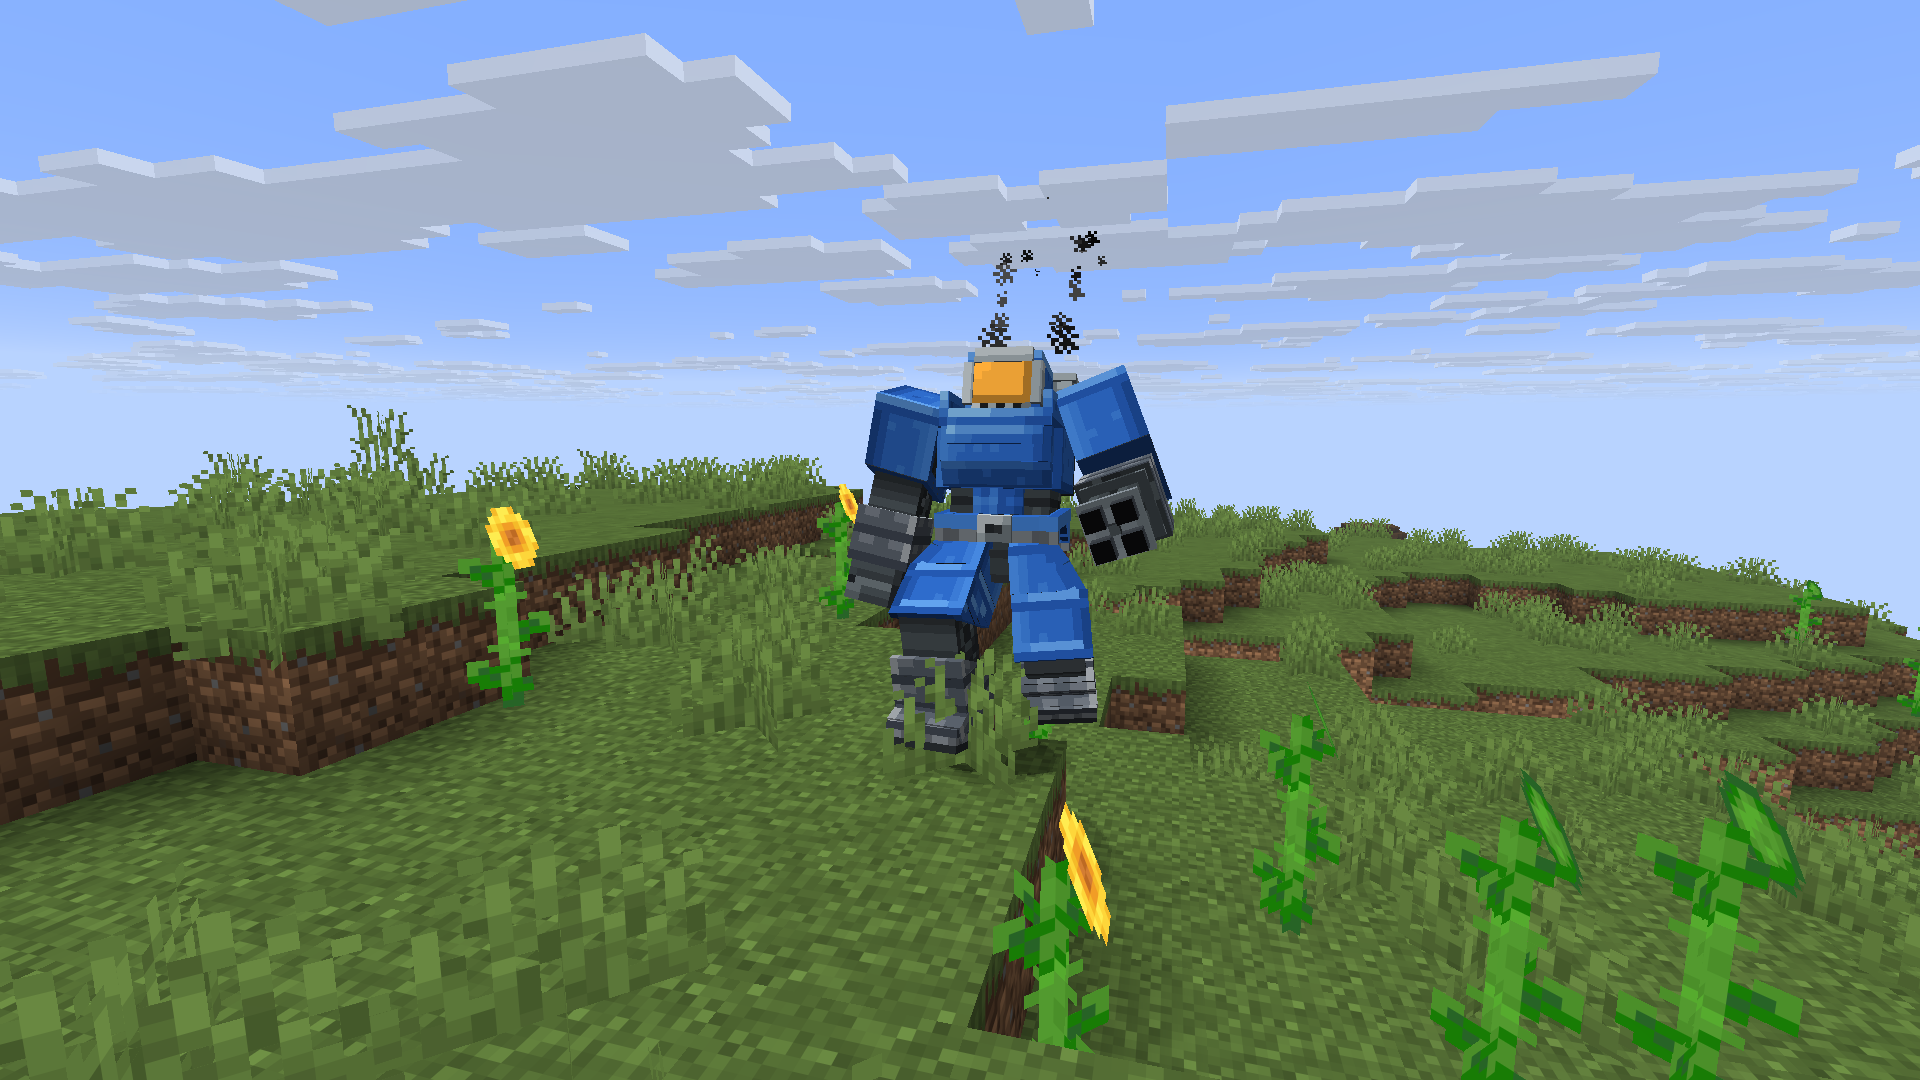
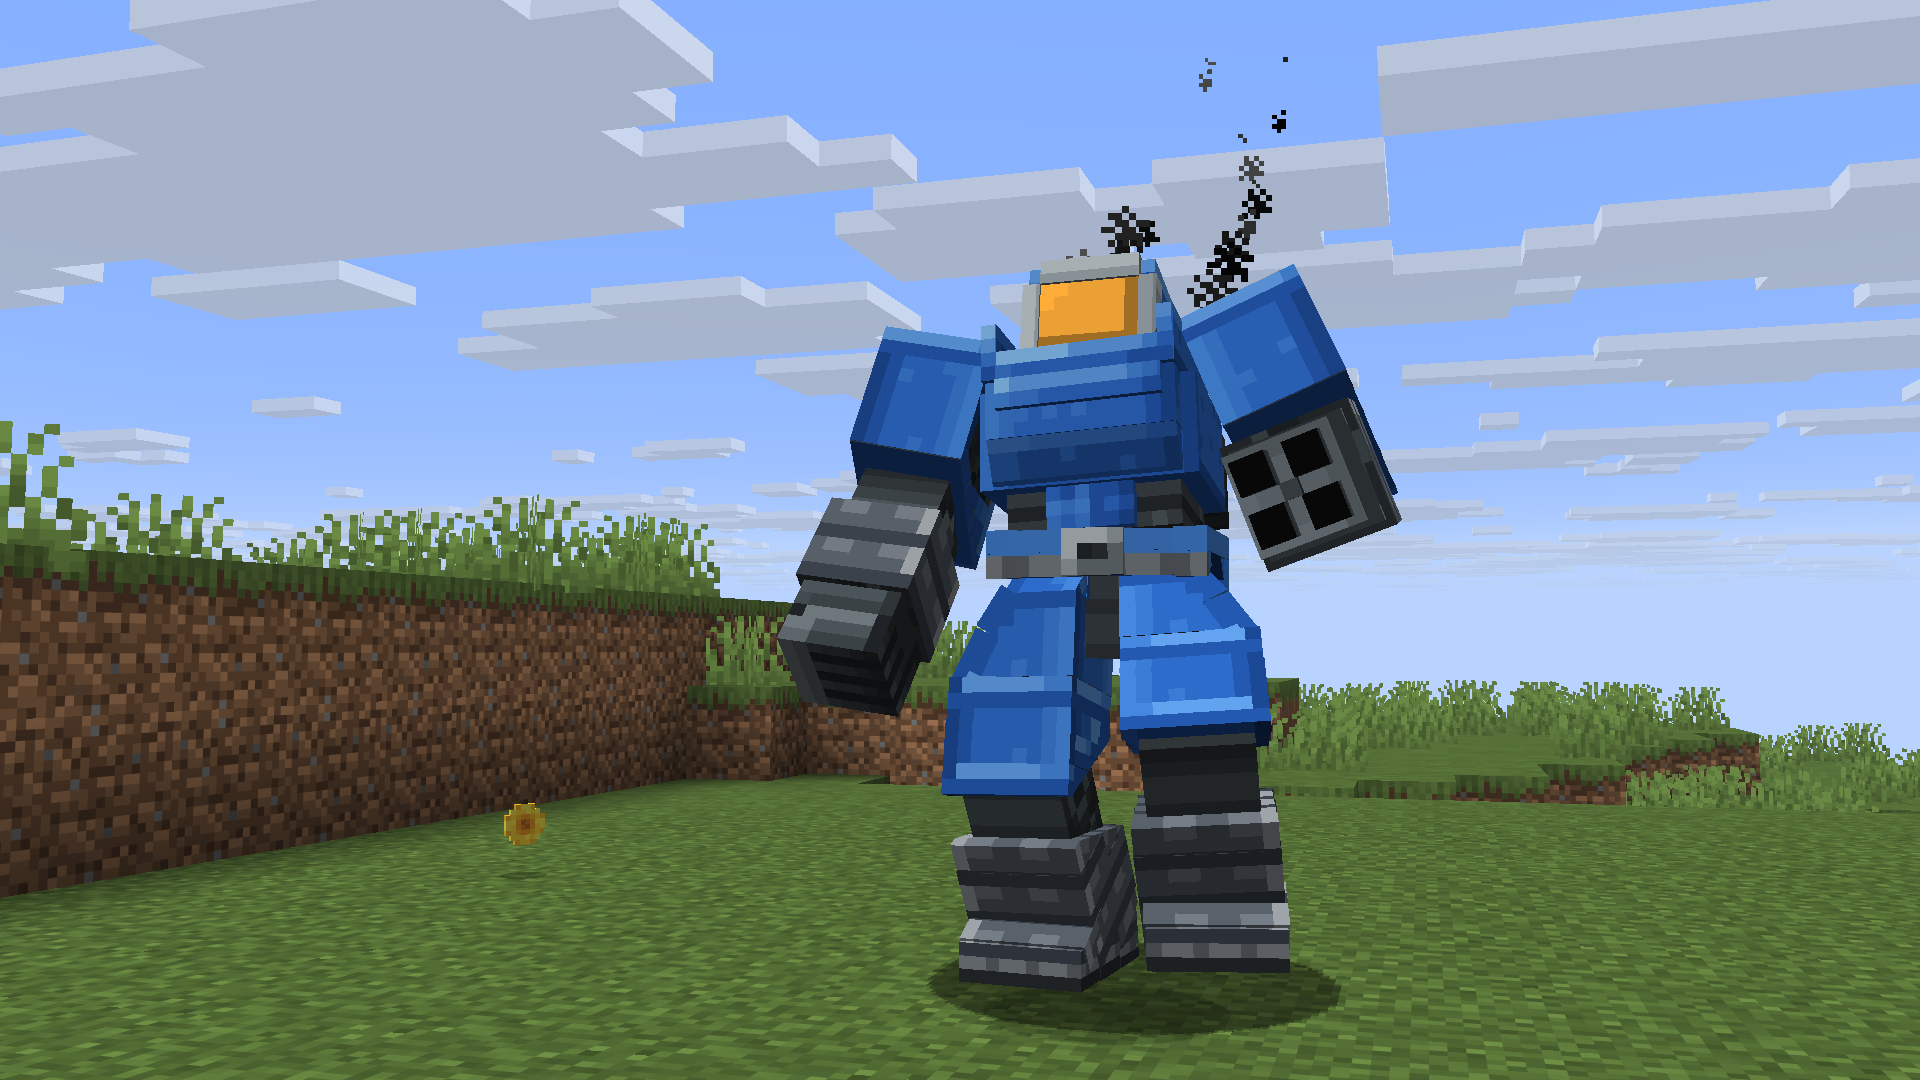
Gallery 1: suit closer with a narrow lens, level ground (showcase levelPath)

diff --git a/src/main/java/dev/ajaczero/powerarmor/client/dev/ShowcaseScene.java b/src/main/java/dev/ajaczero/powerarmor/client/dev/ShowcaseScene.java
@@ -219,18 +219,43 @@ public final class ShowcaseScene {
     private static void walk(Minecraft mc, int k) {
         var o = mc.options;
         // F5's front view turns the pilot's view round: looking up puts its camera higher, looking down at the suit
-        if (k == -SETTLE) { o.setCameraType(CameraType.THIRD_PERSON_FRONT); DevUtil.hideGui(mc, true); yaw = setYaw; pitch = -15; }
+        if (k == -SETTLE) { o.setCameraType(CameraType.THIRD_PERSON_FRONT); DevUtil.hideGui(mc, true); yaw = setYaw; pitch = -15; levelPath(mc); }
         if (k == 0) walk = true;
         if (k >= 8 && k <= 28 && k % 4 == 0) shot(mc, "front_walk", k);
         // a still camera standing in the suit's path, as a friend would: the suit walks up to it. (A scripted camera
         // stops the client sending the pilot's moves to the server; the client still walks the suit, for a few seconds.)
-        if (k == 30) pathCamera(mc, 8.0, 2.3);
+        // close and low with a narrow lens, so the suit fills the frame (the lens is put back for the cockpit shots)
+        if (k == 30) { pathCamera(mc, 7.0, 1.4); mc.options.fov().set(40); }
         if (k >= 34 && k <= 50 && k % 4 == 0) shot(mc, "front_close", k);
-        if (k == 52) { mc.setCameraEntity(mc.player); o.setCameraType(CameraType.FIRST_PERSON); DevUtil.hideGui(mc, false); yaw = setYaw - 25; pitch = 3; } // the mountain and the sea
+        if (k == 52) { o.fov().set(fov); mc.setCameraEntity(mc.player); o.setCameraType(CameraType.FIRST_PERSON); DevUtil.hideGui(mc, false); yaw = setYaw - 25; pitch = 3; } // the mountain and the sea
         if (k >= 62 && k <= 78 && k % 4 == 0) shot(mc, "cockpit", k);
         if (k == 80) { yaw = setYaw; o.setCameraType(CameraType.THIRD_PERSON_BACK); DevUtil.hideGui(mc, true); pitch = 12; }
         if (k >= 86 && k <= 114 && k % 4 == 0) shot(mc, "back_walk", k);
         if (k == 116) done = true;
+    }
+
+    /**
+     * Server: flattens the strip the suit walks along (and the camera stands on): grass at the pilot's ground level, nothing
+     * above it. On the hilltop a step in the ground put one foot half a block over the grass, and tall grass or a ledge
+     * crossed the front shots.
+     */
+    private static void levelPath(Minecraft mc) {
+        Vec3 f = forward(), r = new Vec3(-f.z, 0, f.x);
+        BlockPos base = BlockPos.containing(setPos);
+        AutoPilot.onServer(mc, player -> {
+            ServerLevel level = player.level();
+            for (int a = -3; a <= 22; a++) {
+                for (int s = -6; s <= 6; s++) {
+                    Vec3 p = setPos.add(f.scale(a)).add(r.scale(s));
+                    int x = Mth.floor(p.x), z = Mth.floor(p.z);
+                    level.setBlock(new BlockPos(x, base.getY() - 1, z), net.minecraft.world.level.block.Blocks.GRASS_BLOCK.defaultBlockState(), 2);
+                    level.setBlock(new BlockPos(x, base.getY() - 2, z), net.minecraft.world.level.block.Blocks.DIRT.defaultBlockState(), 2);
+                    for (int y = 0; y <= 6; y++) {
+                        level.setBlock(new BlockPos(x, base.getY() + y, z), net.minecraft.world.level.block.Blocks.AIR.defaultBlockState(), 2);
+                    }
+                }
+            }
+        });
     }
 
     /** Sunset (the sun on the horizon at ~12000; vanilla nights are near black in pictures). Zombies wear helmets: they'd burn now. */
